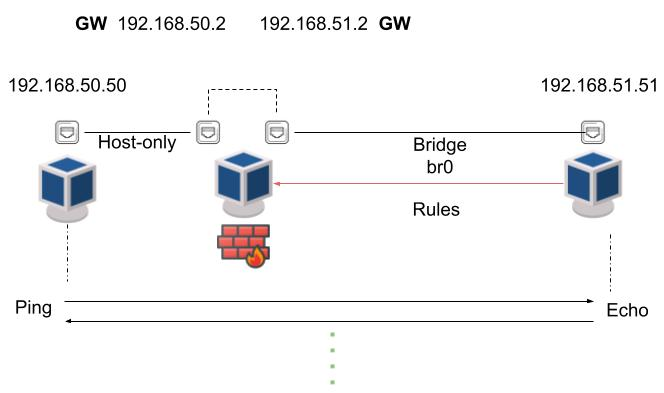
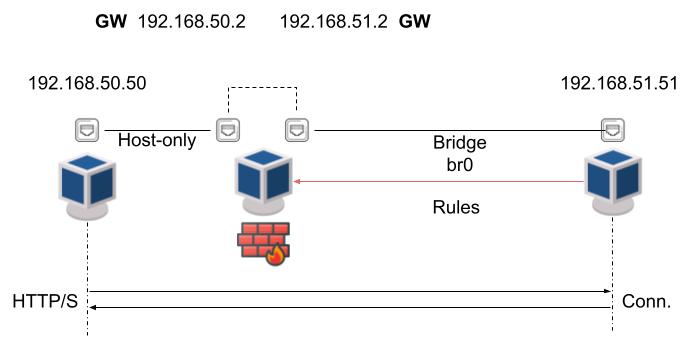
modified gateway_topology and readme

diff --git a/README.md b/README.md
@@ -150,10 +150,9 @@ one gateways), how you can see in the above image. All instances have 1 vCPU and
 
 ![gateway_topology](images/gateway_topology.jpg)
 
-To verify the time required to apply a new access rule, we consider the case of a single
-access rule. In particular, we consider the case of a node with TCP traffic allowed only on port 80.
-A new access rule imposes that only TCP traffic on port 443 is allowed, therefore it is required
-to remove the previous rule and then to add the new one.
+The dynamic on which the test is focused is to have a starting situation where a node has TCP traffic allowed only on port 80. 
+A new access rule imposes that only TCP traffic on port 443 is allowed, therefore it is required to remove the previous rule and then add the new one. 
+The entire time is given by the time for removing the first rule, and the time required to insert and apply a new access rule.
 
 ### How it works
 
